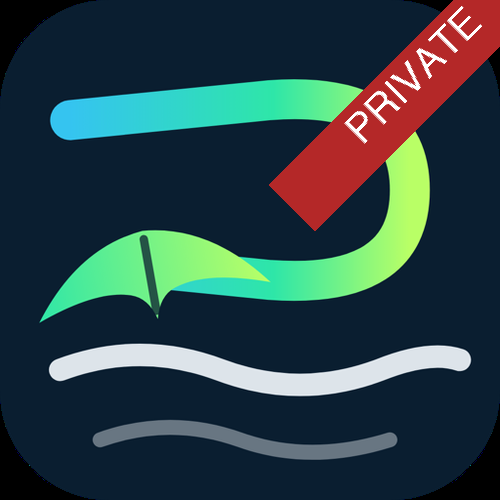
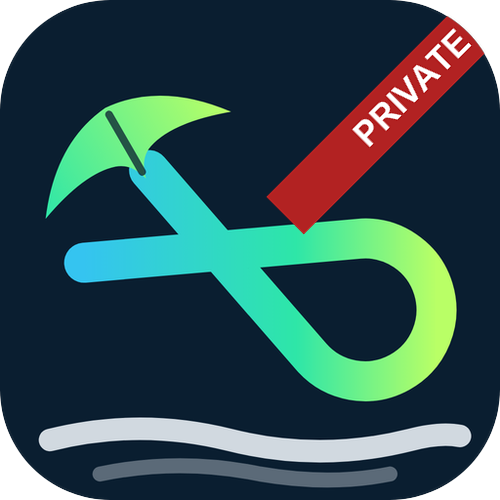
store: the private listings get the current mark and a CleanJibe name, the public field gets "Wingfoil"
the two developer-only listings still wore the pre-September mark under their
PRIVATE ribbon; the ribbon is now on the current tile. they are "CleanJibe -
private" and "CleanJibe Field - private". the public data field is "CleanJibe
Wingfoil Field (Beta)" so both public titles say what sport they are for;
"Field" stays, since the phone store's type label is the only other tell.

Claude-Session: https://claude.ai/code/session_01Mg2rYYNYmQjnvCxJQwsEb7

diff --git a/garmin/store/listing.md b/garmin/store/listing.md
@@ -16,7 +16,7 @@ invite-only beta, English only.
 
 ---
 
-## Watch app — `CleanJibe Wingfoil Tracker - Invite Beta`
+## Watch app — `CleanJibe Wingfoil Tracker (Beta)`
 
 * Store page: <https://apps.garmin.com/apps/e77867b5-e972-4eb2-be1b-90077cfac806>
 * Type: device app · Version **0.9.3** · first submitted 2026-08-12, current version released 2026-08-31
@@ -71,7 +71,12 @@ Note: Garmin keeps your stored page settings on update - existing installs can p
 
 ---
 
-## Data field — `CleanJibe Field - Invite Beta`
+## Data field — `CleanJibe Wingfoil Field (Beta)`
+
+Title since 2026-09-02 (was `CleanJibe Field (Beta)`): "Wingfoil" belongs in both public titles
+because store search shows the two side by side and the tiny DATA FIELD / DEVICE APP label is
+easy to miss; "Field" stays because in the Connect IQ phone app the two would otherwise be
+told apart by that label alone.
 
 * Store page: <https://apps.garmin.com/apps/8dad33d4-e367-45a6-a4bb-9647fd6b5402>
 * Type: data field · Version **0.9.5** · first submitted 2026-08-13, 0.9.5 published 2026-09-01
@@ -113,16 +118,18 @@ New — write settings breadcrumbs with `→`.
 
 ---
 
-## The two developer-only listings (`… (private dev)`)
+## The two developer-only listings (`… - private`)
 
 Not store listings in any public sense, but they live on the same dashboard and cost a day
 of confusion once, so they are written down here.
 
-* `WingFoil (private dev)` — <https://apps.garmin.com/apps/8f4efc35-ad13-46b9-ae9d-f01f444fe05f>,
+* `CleanJibe - private` (until 2026-09-02 `WingFoil (private dev)`) —
+  <https://apps.garmin.com/apps/8f4efc35-ad13-46b9-ae9d-f01f444fe05f>,
   bound to the **developer-beta** UUID `953f7547-c152-42c2-8d33-69fb59ad0bf6`
   (`garmin/manifest-beta.xml`, built with `monkey-beta.jungle`). Version **0.9.4** since
   2026-09-02; before that 0.9.2 (2026-08-07 … 08-31).
-* `WingFoil Field (private dev)` — <https://apps.garmin.com/apps/da0c6cb5-502b-4623-81ed-54ae40a3bf84>,
+* `CleanJibe Field - private` (until 2026-09-02 `WingFoil Field (private dev)`) —
+  <https://apps.garmin.com/apps/da0c6cb5-502b-4623-81ed-54ae40a3bf84>,
   bound to `7e614501-d311-49c6-a68b-992b946e3d21` (`garmin/field/manifest-beta.xml`).
   Version **0.9.5** since 2026-09-02; before that 0.1.0 from 2026-08-12.
 
@@ -142,6 +149,9 @@ What these listings are, and what the dashboard will not tell you:
    full-device-list build, nothing more. The public CleanJibe listings above carry the
    invite UUIDs; the release UUID `b1ef484c…` is reserved for the eventual non-beta public
    listing and has no store listing yet.
+
+Both carry `brand/cover-500-private.png` as cover — the current mark with the red PRIVATE
+ribbon, regenerated 2026-09-02 (the old file still had the pre-September mark).
 
 Naming trap in `garmin/bin/`: files called `*-beta-*.iq` from 0.9.4 on (`CleanJibe-beta-0.9.4.iq`,
 `CleanJibeField-beta-0.9.x.iq`) carry the **invite** UUID, not the dev-beta one — "beta" there
